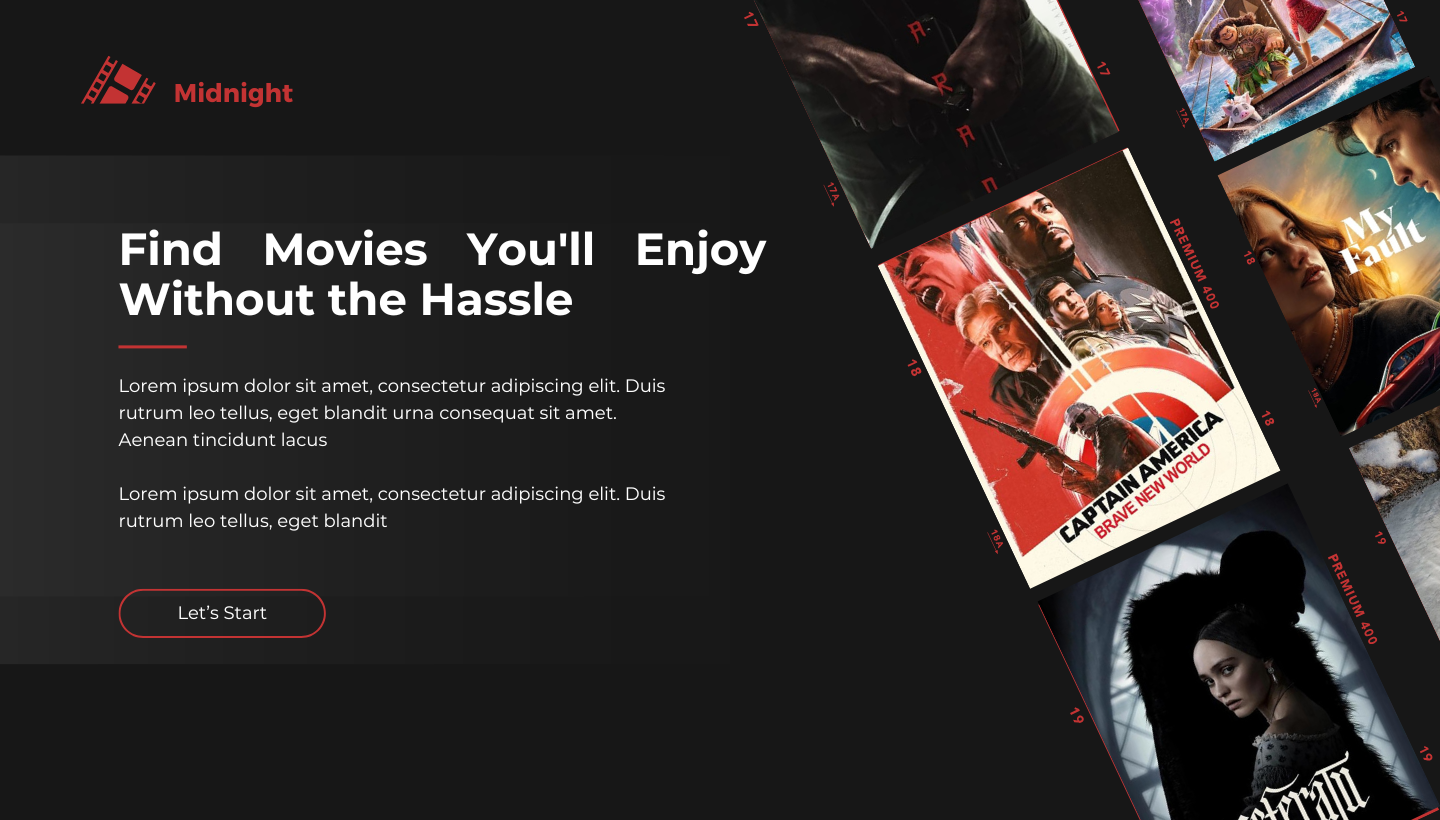
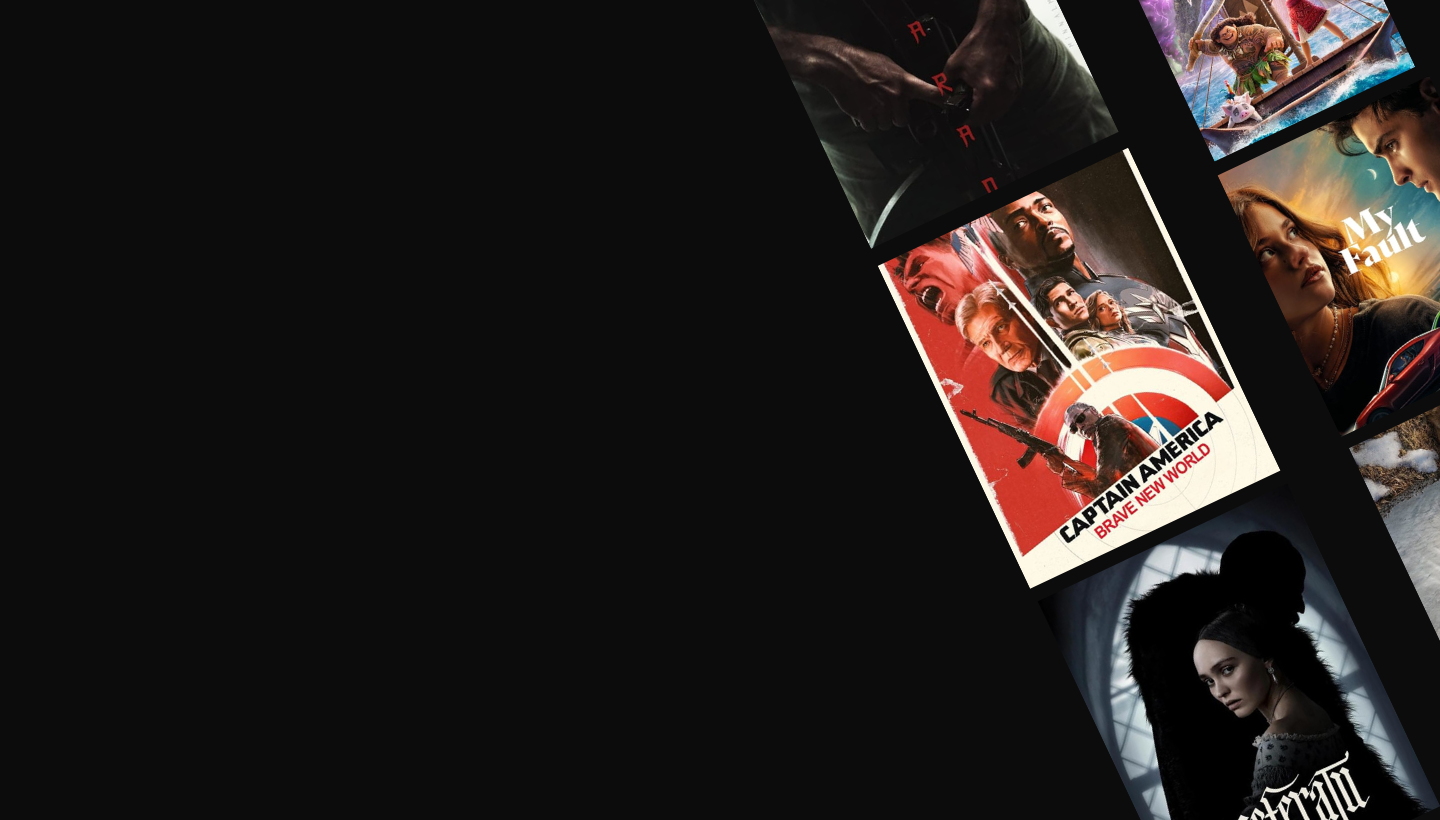
commit

diff --git a/movie-app/src/index.css b/movie-app/src/index.css
@@ -4,14 +4,14 @@
 @import "tailwindcss";
 
 @theme {
-  --color-primary: #030014;
+  --color-primary: #0c0c0c;
 
   --color-light-100: #cecefb;
   --color-light-200: #a8b5db;
 
   --color-gray-100: #9ca4ab;
 
-  --color-dark-100: #0f0d23;
+  --color-dark-100: #171717;
 
   --font-dm-sans: DM Sans, sans-serif;
 

diff --git a/movie-app/src/pages/Welcome.jsx b/movie-app/src/pages/Welcome.jsx
@@ -2,7 +2,9 @@ import React from 'react'
 
 function Welcome() {
   return (
-    <div className='welcome-background'>Welcome</div>
+    <div className='welcome-background'>
+        
+    </div>
   )
 }
 
